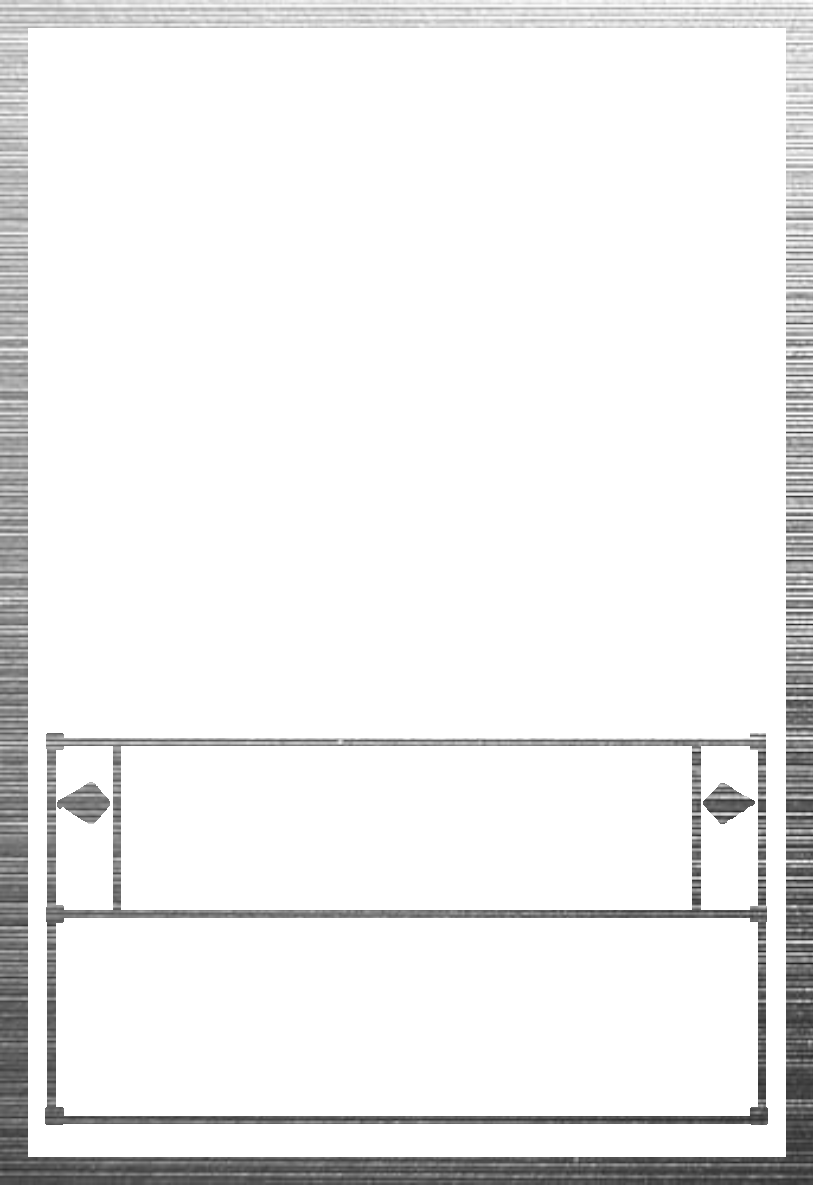
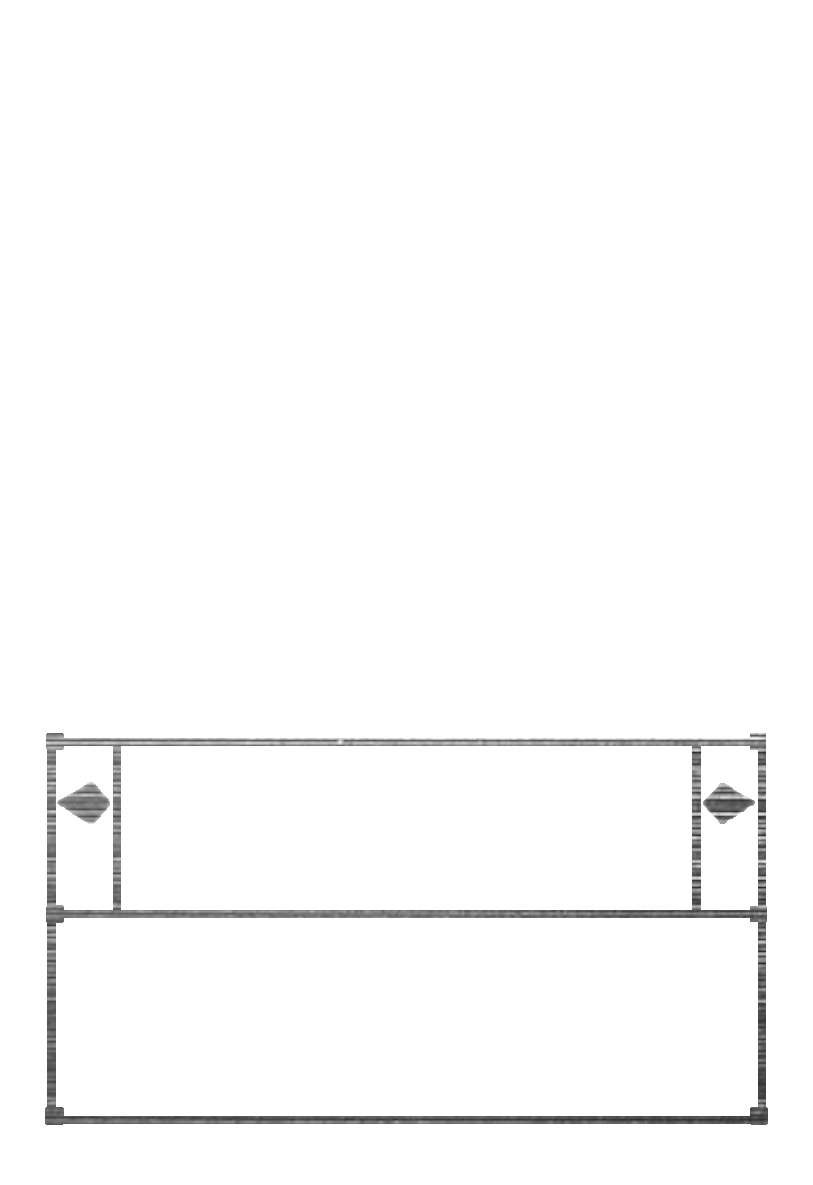
feat: experiment scaless feature

Changed region(s): [[0.0, 0.0, 1.0, 1.0]]

diff --git a/src/draw/predefined-section/layout.ts b/src/draw/predefined-section/layout.ts
@@ -74,6 +74,7 @@ const {
     width: cardWidth,
     height: cardHeight,
     topToPendulumStructure,
+    topToPendulumStructureFrame,
     pendulumStructureHeight,
     leftToPendulumStructure,
     effectBoxHeight,
@@ -99,6 +100,7 @@ export const getLayoutDrawFunction = ({
     opacity,
     isLink, isSpeedSkill, isXyz,
     isPendulum,
+    isScaleless,
     loopFinish,
     loopArtFinish,
 }: {
@@ -118,6 +120,7 @@ export const getLayoutDrawFunction = ({
     opacity: CardOpacity,
     isXyz: boolean, isSpeedSkill: boolean, isLink: boolean,
     isPendulum: boolean,
+    isScaleless: boolean,
     loopFinish: (
         ctx?: CanvasRenderingContext2D | null,
         name?: string,
@@ -143,10 +146,17 @@ export const getLayoutDrawFunction = ({
         artWidth,
         artRatio,
     } = getArtCanvasCoordinate(isPendulum, opacity, undefined, pendulumSize);
+    const {
+        frameType,
+        effectBoxOffsetY,
+        pendulumBoxX, pendulumBoxY, pendulumBoxWidth, pendulumBoxHeight,
+        pendulumBoxOffsetY,
+        artlessFrameY,
+    } = PendulumSizeMap[pendulumSize];
     const artBorder = opacityBody > 0 ? true : keepArtBorder;
     const artBoxY = 170, artBoxX = 60;
     const effectBoxY = 860, effectBoxX = 35;
-    const backgroundEffectBoxY = effectBoxY + 24, backgroundEffectBoxX = effectBoxX + 19;
+    const backgroundEffectBoxY = effectBoxY + 25, backgroundEffectBoxX = effectBoxX + 19;
     const backgroundEffectBoxWidth = 705, backgroundEffectBoxHeight = 231;
 
     const hasFoil = foil !== 'normal';
@@ -377,7 +387,7 @@ export const getLayoutDrawFunction = ({
         drawPendulumScaleIcon: async () => {
             if (!ctx) return;
             ctx.scale(globalScale, globalScale);
-            await drawAsset(ctx, `frame-pendulum/pendulum-scale-${pendulumSize}.png`, 0, 750);
+            if (!isScaleless) await drawAsset(ctx, `frame-pendulum/pendulum-scale-${pendulumSize}.png`, 0, 750);
             ctx.resetTransform();
         },
         /** Individual arrows has two state (active/inactive) and two different parts (base and core) */
@@ -415,21 +425,23 @@ export const getLayoutDrawFunction = ({
 
             ctx.scale(globalScale, globalScale);
             ctx.globalAlpha = opacityText / 100;
-            const {
-                frameType,
-                effectBoxOffsetY,
-                pendulumBoxX, pendulumBoxY, pendulumBoxWidth, pendulumBoxHeight,
-                pendulumBoxOffsetY,
-            } = PendulumSizeMap[pendulumSize];
 
-            await drawAssetWithSize(
-                ctx,
-                `background/background-text-${bottomFrame}.png`,
-                backgroundEffectBoxX, backgroundEffectBoxY + effectBoxOffsetY,
-                backgroundEffectBoxWidth, backgroundEffectBoxHeight,
-                0, 0 + effectBoxOffsetY,
-                backgroundEffectBoxWidth, backgroundEffectBoxHeight,
-            );
+            if (withPendulum) {
+                await drawAssetWithSize(
+                    ctx,
+                    `background/background-text-${bottomFrame}.png`,
+                    backgroundEffectBoxX, backgroundEffectBoxY + effectBoxOffsetY,
+                    backgroundEffectBoxWidth, backgroundEffectBoxHeight,
+                    0, 0 + effectBoxOffsetY,
+                    backgroundEffectBoxWidth, backgroundEffectBoxHeight,
+                );
+            } else {
+                await drawAsset(
+                    ctx,
+                    `background/background-text-${bottomFrame}.png`,
+                    backgroundEffectBoxX, backgroundEffectBoxY,
+                );
+            }
             if (withPendulum) {
                 ctx.globalAlpha = opacityPendulum / 100;
                 const {
@@ -487,15 +499,34 @@ export const getLayoutDrawFunction = ({
         },
         drawPendulumBorder: async (artBorder: boolean, foilType: Foil) => {
             if (!ctx) return;
-            ctx.scale(globalScale, globalScale);
+            /** We create a new canvas for easier manipulation. */
+            const pendulumBorderCanvas = document.createElement('canvas');
+            pendulumBorderCanvas.width = cardWidth;
+            pendulumBorderCanvas.height = cardHeight;
+            const pendulumBorderContext = pendulumBorderCanvas.getContext('2d');
             await drawAsset(
-                ctx,
+                pendulumBorderContext,
                 `frame-pendulum/border-pendulum-${pendulumSize}`
                     + `-${foilType}`
-                    + (artBorder ? '' : '-artless')
-                    + '.png',
-                30, 185,
+                    + '-artless.png',
+                30, topToPendulumStructureFrame,
             );
+            if (artBorder) {
+                /**
+                 * In artless border, the top of the pendulum effect box has shadow. But there is no shadow in normal border, so if art border is present, we cut the top of the artless border to remove the shadow, before seemlessly join it with the art border part.
+                 */
+                pendulumBorderContext.clearRect(0, 0, cardWidth, artlessFrameY + topToPendulumStructureFrame);
+                await drawAsset(
+                    pendulumBorderContext,
+                    `frame-pendulum/border-pendulum-${pendulumSize}`
+                        + `-${foilType}`
+                        + '.png',
+                    30, topToPendulumStructureFrame,
+                );
+            }
+
+            ctx.scale(globalScale, globalScale);
+            ctx.drawImage(pendulumBorderCanvas, 0, 0);
             ctx.resetTransform();
         },
         /** Usually we can draw foil on top of effect border, but speed skill's effect border is thicker so foil cannot cover it properly, in this case we will not draw the effect border knowing foil will be applied.
@@ -622,7 +653,11 @@ export const getLayoutDrawFunction = ({
             if (artBorder) await loopFinish(
                 ctx,
                 'art-border-pendulum',
-                finishType => drawAsset(ctx, `finish/finish-${finishType}-art-border-pendulum-${pendulumSize}.png`, 0, 0)
+                finishType => drawAsset(
+                    ctx,
+                    `finish/finish-${finishType}-art-border-pendulum-${pendulumSize}.png`,
+                    0, 0,
+                ),
             );
             ctx.resetTransform();
         },
@@ -632,7 +667,11 @@ export const getLayoutDrawFunction = ({
             await loopFinish(
                 ctx,
                 'border-pendulum',
-                async finishType => drawAsset(ctx, `finish/finish-${finishType}-border-pendulum-${pendulumSize}.png`, 0, 0)
+                async finishType => drawAsset(
+                    ctx,
+                    `finish/finish-${finishType}-border-pendulum-${pendulumSize}${isScaleless ? '-scaleless' : ''}.png`,
+                    0, 0,
+                )
             );
             ctx.resetTransform();
         },
@@ -655,7 +694,7 @@ export const getLayoutDrawFunction = ({
                 ctx,
                 'frame-background',
                 async type => {
-                    return drawAsset(ctx, `finish/finish-${type}-frame-background${isPendulum ? `-pendulum-${pendulumSize}` : ''}.png`, 0, 0);
+                    return drawAsset(ctx, `finish/finish-${type}-frame-background${isPendulum ? '-pendulum' : ''}.png`, 0, 0);
                 },
             );
             ctx.resetTransform();

diff --git a/src/service/use-master-seri/index.tsx b/src/service/use-master-seri/index.tsx
@@ -220,7 +220,7 @@ export const useMasterSeriDrawer = (active: boolean, canvasMap: MasterSeriesCanv
             ? (isMonster || isSpeedSkill)
             : cardIcon !== 'st'
         : false;
-
+    const isScaleless = (pendulumScaleBlue ?? '') === '' && (pendulumScaleRed ?? '') === '';
     const {
         isInitializing,
         imageChangeCount,
@@ -325,6 +325,7 @@ export const useMasterSeriDrawer = (active: boolean, canvasMap: MasterSeriesCanv
                 opacity: normalizedOpacity,
                 isLink, isSpeedSkill, isXyz,
                 isPendulum,
+                isScaleless,
                 loopFinish,
                 loopArtFinish,
             });
@@ -506,6 +507,7 @@ export const useMasterSeriDrawer = (active: boolean, canvasMap: MasterSeriesCanv
         isDuelTerminalCard,
         isLink,
         isPendulum,
+        isScaleless,
         isSpeedCard,
         isSpeedSkill,
         isXyz,
@@ -522,7 +524,7 @@ export const useMasterSeriDrawer = (active: boolean, canvasMap: MasterSeriesCanv
         imageChangeCount, // Special dependency, do not remove even though it is not used in the effect itself
     ]);
 
-    /** DRAW SCALE */
+    /** DRAW PENDULUM SCALE */
     useEffect(() => {
         if (!readyToDraw) return;
         const ctx = pendulumScaleCanvasRef.current?.getContext('2d');
@@ -530,8 +532,8 @@ export const useMasterSeriDrawer = (active: boolean, canvasMap: MasterSeriesCanv
         if (!clearCanvas(ctx)) return;
         if (isPendulum) {
             const { numberBlueX, numberRedX, numberY, fontSize } = PendulumSizeMap[pendulumSize];
-            drawScale(ctx, pendulumScaleBlue ?? '0', numberBlueX, numberY, fontSize, globalScale);
-            drawScale(ctx, pendulumScaleRed ?? '0', numberRedX, numberY, fontSize, globalScale);
+            if ((pendulumScaleBlue ?? '') !== '') drawScale(ctx, pendulumScaleBlue, numberBlueX, numberY, fontSize, globalScale);
+            if ((pendulumScaleRed ?? '') !== '') drawScale(ctx, pendulumScaleRed, numberRedX, numberY, fontSize, globalScale);
         }
     }, [readyToDraw, globalScale, isPendulum, pendulumSize, pendulumScaleBlue, pendulumScaleRed, pendulumScaleCanvasRef]);
 

diff --git a/src/model/foil-finish.tsx b/src/model/foil-finish.tsx
@@ -30,6 +30,7 @@ export const FinishMap: Record<string, FinishInformation> = {
         value: 'type3',
         label: '3',
         partInstructionMap: {
+            'card-border': type3CommonInstruction,
             'art-overlay': type3CommonInstruction,
             'art-border': type3CommonInstruction,
             'art-border-pendulum': type3CommonInstruction,
@@ -69,6 +70,7 @@ export const FinishMap: Record<string, FinishInformation> = {
         value: 'type8',
         label: '8',
         partInstructionMap: {
+            'card-border': type8CommonInstruction,
             'art-border': type8CommonInstruction,
             'art-border-pendulum': type8CommonInstruction,
             'border-pendulum': type8CommonInstruction,

diff --git a/src/model/pendulum.ts b/src/model/pendulum.ts
@@ -13,6 +13,7 @@ export const PendulumSizeMap = {
         numberBlueX: 84.4,
         numberRedX: 728.0,
         numberY: 816,
+        artlessFrameY: 594,
         fontSize: 56.5,
     },
     medium: {
@@ -28,6 +29,7 @@ export const PendulumSizeMap = {
         numberBlueX: 84.4,
         numberRedX: 728.0,
         numberY: 790,
+        artlessFrameY: 553,
         fontSize: 60.5,
     },
     large: {
@@ -43,6 +45,7 @@ export const PendulumSizeMap = {
         numberBlueX: 84.4,
         numberRedX: 728.0,
         numberY: 806,
+        artlessFrameY: 553,
         fontSize: 60.5,
     },
 };

diff --git a/src/model/canvas.ts b/src/model/canvas.ts
@@ -56,6 +56,8 @@ export const CanvasConst = {
     height: 1185,
     maximumScale: 2,
     topToPendulumStructure: 210,
+    /** Pure structure is visible frame on the card, the frame of that structure has a bit padding for shadow around it. */
+    topToPendulumStructureFrame: 185,
     topToArtFrame: 213,
     pendulumStructureHeight: 912,
     leftToPendulumStructure: 52,
